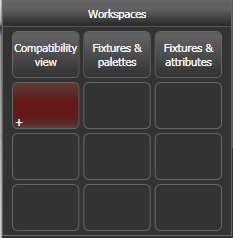
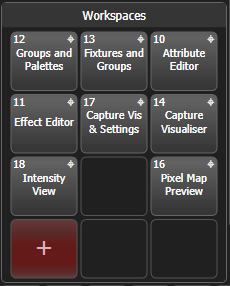
Workspace buttons
Update description of annotations on workspace buttons

diff --git a/docs/titan-basics/workspace-windows.md b/docs/titan-basics/workspace-windows.md
@@ -159,25 +159,59 @@ To record, press \<View/Open\> then
 touch an empty button twice to Quick Record. You can also save
 workspaces onto any grey handle or macro button.
 
+When saving and loading workspaces, it's often useful to be able to set how existing windows
+will behave if you load more windows, and to be able to target particular windows to a certain screen on the console.
+
+-   \[Record Visible/All Windows\] lets you set whether the workspace
+    will contain only the windows which are currently visible, or will
+    also include any windows which are hidden underneath other windows.
+
+-   \[Remove/Leave other windows on recall\] sets whether all other
+    windows will be closed when this workspace is recalled. If set to remove,
+	the Workspace button will show an X in the corner.
+	
+	![Workspaces](/docs/images/Workspace-Layout-Button-Letters-X.png)
+
+-   \[Screens=\] sets whether the workspace layout will record all the screens,
+    or individual screens (you can select or deselect each screen).
+
+-   \[Recall as Recorded / Where Selected\] only appears if the Screens option
+    is set to record only a single screen, and sets whether the workspace will
+	recall onto the screen where you recorded it (button shows S + the screen number), or if it will recall onto
+	the screen where you selected it (button shows a target symbol).
+	![Workspaces](/docs/images/Workspace-Layout-Button-Letters.png)
+
+-   To delete a workspace button, press \<View/Open\>, \<Delete\>, then
+    the workspace button to be deleted.
+
+-	When recalling a workspace, if you press \<View/Open\> first then softkey buttons let you
+	set the workspace to recall to the particular screen where it was recorded \[As Recorded\], or to a different screen
+	(the other screen numbers are listed on softkeys). This is useful when a workspace contains only a single screen,
+	allowing you to recall it onto a different screen.
+	
+
+>	Screen numbering:  
+	On consoles with a single internal screen, that is (1) and the external screen is (2).  
+	On Arena 	the main screen is (1), the mini screen (2) and the external screen (3).   
+	On Sapphire Touch the right main screen is (1), the left main screen is (2) and the external screens are (3) and (4).
 
 
-Workspaces are saved with the show.
 
 As an example of setting up a workspace, suppose while programming you
 wanted to be able to access fixtures, position palettes, fixture
 attributes and shapes:
 
-1. Press \<Exit\> to get to the root menu then the \[Open Workspace
+1. Double press the \<View/Open\> button. Press \<Exit\> to get to the root menu then the \[Open Workspace
 Window\] menu softkey.
 
-2. Find the \[Fixtures\] window in the list and press it.
+2. Find the \[Fixtures\] icon on the screen and press it.
 
 3. If the window is not in the top left quarter, press the \<Size &
 Position\> button (above the numeric keys) until the window occupies the
 top left quarter. Or press the Settings/Cog touch button on the window
 top bar and press the top left position button in that window.
 
-4. Press \[Open Workspace Window\] again and select the \[Positions\]
+4. Double press \<View/Open\>  again and select the \[Positions\]
 window. Press the \<Size & Position\> button to position it in the desired
 location.
 
@@ -190,34 +224,8 @@ can use Quick Record -- just touch an empty workspace button and it will
 turn red with a +. Type a name for the workspace and touch again to
 store it.
 
--   \[Record Visible/All Windows\] lets you set whether the workspace
-    will contain only the windows which are currently visible, or will
-    also include any windows which are hidden underneath other windows.
 
--   \[Remove/Leave other windows on recall\] sets whether all other
-    windows will be closed when this workspace is recalled. If set to remove,
-	the Workspace button will show an X in the corner.
 
--   \[Screens=\] sets whether the workspace layout will record all the screens,
-    or individual screens (you can select or deselect each screen).
-
--   \[Recall as Recorded / Where Selected\] only appears if the Screens option
-    is set to record only a single screen, and sets whether the workspace will
-	always recall onto the screen where you recorded it (button shows the screen number)
-	, or if it will recall onto
-	the screen where you pressed the Workspace layout recall button. (button shows a target symbol)
-
--   To delete a workspace button, press \<View/Open\>, \<Delete\>, then
-    the workspace button to be deleted.
-
--	When recalling a workspace, if you press \<View/Open\> first then softkey buttons let you
-	set the workspace to recall to the particular screen where it was recorded \[As Recorded\], or to a different screen
-	(the other screens are listed on softkeys). This is useful when a workspace contains only a single screen,
-	allowing you to recall it onto a different screen.
-
->	On consoles with a single internal screen, that is (1) and the external screen is (2). On Arena
-	the main screen is (1), the mini screen (2) and the external screen (3). On Sapphire Touch
-	the right main screen is (1), the left main screen is (2) and the external screens are (3) and (4).
 
 Quick record
 ------------
@@ -228,7 +236,9 @@ Set up what you want to record, then touch or click an empty button
 once. The button will light up red with a + sign. At this point you can
 enter a legend. Touch or click again to store the item.
 
-The Quick Record function can be disabled using [Key Profiles](../system-settings/key-profiles.md)
+The Quick Record function can be disabled for a particular button type using [Key Profiles](../system-settings/key-profiles.md).
+
+For palette buttons, the quick record function works slightly differently to pressing \<Record\> followed by the button. See [Storing a Palette](../palettes/creating-palettes#storing-a-palette).
 
 Legends and picture legends
 ---------------------------
